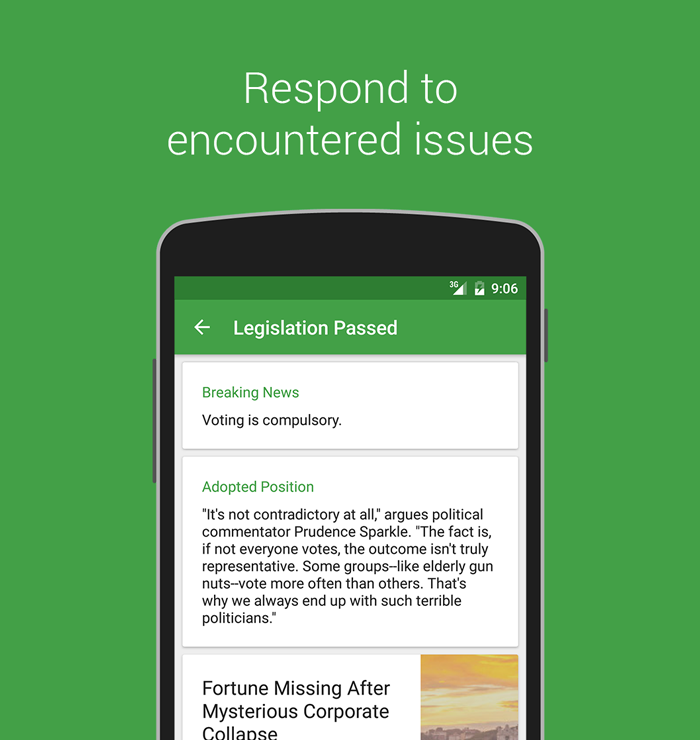
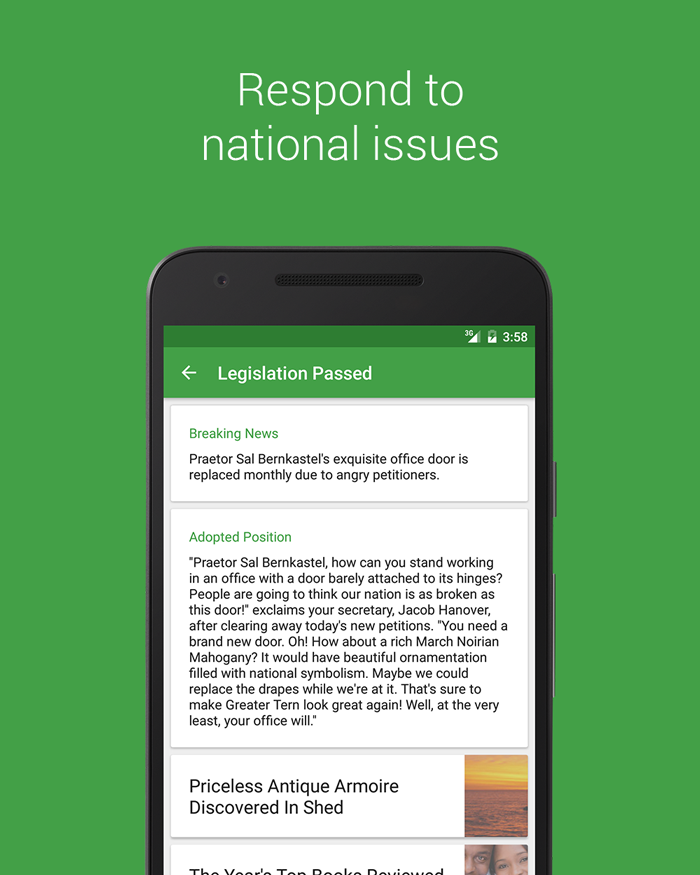
Update Stately project page

Changed region(s): [[0.21, 0.2797, 0.81, 1.0], [0.24, 0.0622, 0.78, 0.2176]]

diff --git a/stately.md b/stately.md
@@ -22,7 +22,7 @@ sequence: -14
     <div class="col-sm-8">
         <p class="featuretext-lg"><strong class="green-emph">Stately</strong> is an unofficial NationStates app for Android.</p>
 
-        <p class="featuretext-md">Quickly get stats about your nation, respond to encountered issues, compose telegrams, browse regional communities, post on your region's boards, vote in the World Assembly, and explore NationStates.</p>
+        <p class="featuretext-md">Get quick stats on your nations, respond to issues, discover census trends, read and write telegrams, browse regional communities, post on RMBs, vote in the World Assembly, and explore NationStates.</p>
     </div>
 
     <div class="col-sm-4">
@@ -34,9 +34,6 @@ sequence: -14
                 <img src="/images/projects/stately/stately-2.png"/>
             </li>
             <li>
-                <img src="/images/projects/stately/stately-6.png"/>
-            </li>
-            <li>
                 <img src="/images/projects/stately/stately-3.png"/>
             </li>
             <li>
@@ -44,6 +41,12 @@ sequence: -14
             </li>
             <li>
                 <img src="/images/projects/stately/stately-5.png"/>
+            </li>
+            <li>
+                <img src="/images/projects/stately/stately-6.png"/>
+            </li>
+            <li>
+                <img src="/images/projects/stately/stately-7.png"/>
             </li>
         </ul>
     </div>
